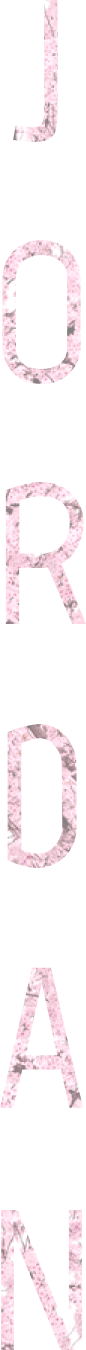
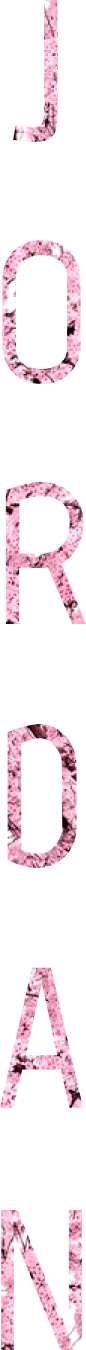
updated to darker png's

diff --git a/homep.css b/homep.css
@@ -379,40 +379,51 @@ cursor: none;
 
 
 #nameHeader img {
-  margin-left: 20px;
-  height: 400px;
-  margin-bottom: -15px;
+  margin-left: -220px;
+  height: 500px;
+  margin-top: -810px;
+  margin-bottom: -155px;
+  backdrop-filter: blur(20px);
+  border: #f2c7e2 2px solid;
+  padding: 40px;
+  
 }
 
 #name2Header img {
-  margin-left: 800px;
-  margin-top: -500px;
-  height: 400px;
+  margin-left: 965px;
+  margin-top: -750px;
+  height: 500px;
+  backdrop-filter: blur(20px);
+  border: #f2c7e2 2px solid;
+  padding: 40px;
 }
 
 #mainHeaders p {
-  width: 700px;
+  width: 1300px;
   color: #f2c7e2;
   position: flex;
   display: row;
-  font-size: 8vw;
-  word-spacing: 55px;
+  font-size: 7vw;
+  word-spacing: 35px;
   justify-content: wrap;
   align-content: wrap;
-  margin-left: 70px;
+  margin-left: -220px;
   margin-top: -400px;
   font-family: "Marvel";
   line-height: 80%;
   border: #f2c7e2 2px solid;
   border-radius: 5px;
-  padding: 25px;
+  padding: 120px;
+  padding-left: 220px;
+  opacity: 0.85;
+  backdrop-filter: blur(5px);
 }
 
 #mainHeaders {
   border-radius: 5px;
   height: 450px;
   width: 950px;
-  margin-top: -1300px;
+  margin-top: -1250px;
   margin-bottom: 400px;
   margin-left: 550px;
   padding: 10px, 15px;
@@ -423,7 +434,7 @@ cursor: none;
   max-width: 50vw;
   position: flex;
   margin-bottom: 380px;
-  margin-top: -250px;
+  margin-top: -300px;
   margin-left: 105px;
   bottom: 0px;
   display: flex;
@@ -789,7 +800,7 @@ textarea {
   display: flex;
   justify-content: space-around;
   flex-wrap: wrap;
-  overflow: hidden;
+  overflow: visible;
 }
 
 .loader2 {
@@ -801,7 +812,7 @@ textarea {
   display: flex;
   justify-content: space-around;
   flex-wrap: wrap;
-  overflow: hidden;
+  overflow: visible;
 }
 
 .loader3 {
@@ -812,7 +823,7 @@ textarea {
   display: flex;
   justify-content: space-around;
   flex-wrap: wrap;
-  overflow: hidden;
+  overflow: visible;
 }
 
 .loader span {

diff --git a/homePage.html b/homePage.html
@@ -112,14 +112,14 @@ integrity="sha384-MCw98/SFnGE8fJT3GXwEOngsV7Zt27NXFoaoApmYm81iuXoPkFOJwJ8ERdknLP
     </div>
 
 <div id="mainHeaders">
-    <div id="nameHeader">
-        <h2><img src="J o r d a n.svg"></h2>
+   
+    <p>FRONT-END WEB _ DEVELOPER UI/UX _ DESIGNER  </p>
+ <div id="nameHeader">
+        <h2><img src="J o r d a n.png"></h2>
     </div>
-    <p>FRONT-END WEB DEVELOPER UI/UX DESIGNER  </p>
-
 
     <div id="name2Header">
-        <h2><img src="c o l e s.svg"></h2>
+        <h2><img src="c o l e s.png"></h2>
     </div>
 </div>
 
